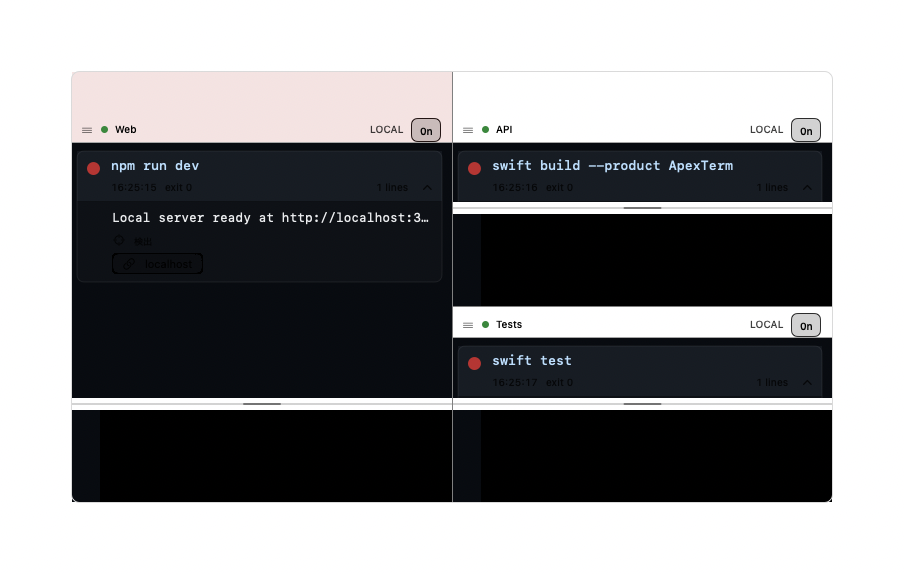
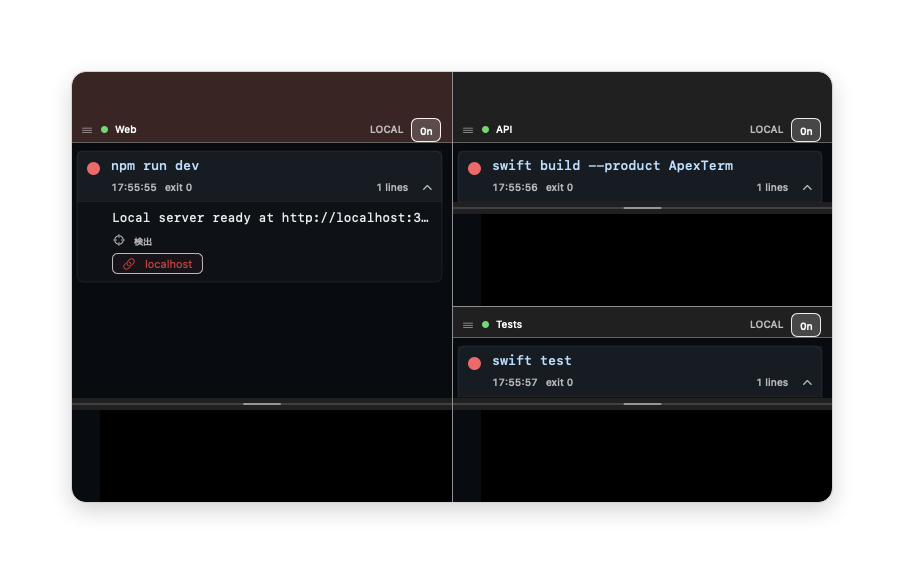
feat: add appearance settings and README presentation captures

diff --git a/Sources/ApexTermApp/RootView.swift b/Sources/ApexTermApp/RootView.swift
@@ -2976,9 +2976,16 @@ struct RootView: View {
             try? await Task.sleep(for: .milliseconds(25))
         }
 
-        let lightAppearance = NSAppearance(named: .aqua)
-        NSApp.appearance = lightAppearance
-        mainWindow?.appearance = lightAppearance
+        let screenshotAppearance = ApexInterfaceAppearance(
+            rawValue: environment["APEXTERM_README_SCREENSHOT_APPEARANCE"] ?? "dark"
+        ) ?? .dark
+        model.interfaceAppearance = screenshotAppearance
+        model.interfaceAccentColorHex = nil
+        let appKitAppearance = NSAppearance(
+            named: screenshotAppearance == .light ? .aqua : .darkAqua
+        )
+        NSApp.appearance = appKitAppearance
+        mainWindow?.appearance = appKitAppearance
         model.languageCode = environment["APEXTERM_README_SCREENSHOT_LANGUAGE"] ?? "en"
         model.isMainWindowPinned = false
         model.isWorkspaceSidebarCollapsed = false
@@ -3062,7 +3069,7 @@ struct RootView: View {
             "scene=\(scene)",
             "workspaces=\(model.workspaces.count)",
             "panes=\(sessionIDs.count)",
-            "light_appearance=\(NSApp.effectiveAppearance.bestMatch(from: [.aqua, .darkAqua]) == .aqua ? 1 : 0)",
+            "app_appearance=\(screenshotAppearance.rawValue)",
             "screenshot_written=\(screenshotWritten ? 1 : 0)",
             "ready=1"
         ].joined(separator: "\n") + "\n"
@@ -3100,27 +3107,47 @@ struct RootView: View {
         canvas.lockFocus()
         NSColor.white.setFill()
         NSBezierPath(rect: CGRect(origin: .zero, size: canvasSize)).fill()
+        let appFrame = CGRect(
+            x: padding,
+            y: padding,
+            width: bounds.width,
+            height: bounds.height
+        )
+        let cornerRadius: CGFloat = 14
+        let shadow = NSShadow()
+        shadow.shadowColor = NSColor.black.withAlphaComponent(0.18)
+        shadow.shadowBlurRadius = 24
+        shadow.shadowOffset = NSSize(width: 0, height: -8)
+
+        NSGraphicsContext.saveGraphicsState()
+        shadow.set()
+        NSColor.windowBackgroundColor.setFill()
+        NSBezierPath(
+            roundedRect: appFrame,
+            xRadius: cornerRadius,
+            yRadius: cornerRadius
+        ).fill()
+        NSGraphicsContext.restoreGraphicsState()
+
+        NSGraphicsContext.saveGraphicsState()
+        NSBezierPath(
+            roundedRect: appFrame,
+            xRadius: cornerRadius,
+            yRadius: cornerRadius
+        ).addClip()
         sourceImage.draw(
-            in: CGRect(
-                x: padding,
-                y: padding,
-                width: bounds.width,
-                height: bounds.height
-            ),
+            in: appFrame,
             from: CGRect(origin: .zero, size: bounds.size),
             operation: .sourceOver,
             fraction: 1
         )
-        NSColor(calibratedWhite: 0.82, alpha: 1).setStroke()
+        NSGraphicsContext.restoreGraphicsState()
+
+        NSColor(calibratedWhite: 0.78, alpha: 1).setStroke()
         let border = NSBezierPath(
-            roundedRect: CGRect(
-                x: padding - 0.5,
-                y: padding - 0.5,
-                width: bounds.width + 1,
-                height: bounds.height + 1
-            ),
-            xRadius: 8,
-            yRadius: 8
+            roundedRect: appFrame.insetBy(dx: -0.5, dy: -0.5),
+            xRadius: cornerRadius + 0.5,
+            yRadius: cornerRadius + 0.5
         )
         border.lineWidth = 1
         border.stroke()

diff --git a/Sources/ApexTermApp/AppModel.swift b/Sources/ApexTermApp/AppModel.swift
@@ -295,6 +295,35 @@ final class AppModel: ObservableObject {
             synchronizeSettingsDocument()
         }
     }
+    @Published var interfaceAppearance = ApexInterfaceAppearance(
+        rawValue: UserDefaults.standard.string(forKey: "apexterm.interface.appearance") ?? ""
+    ) ?? .system {
+        didSet {
+            UserDefaults.standard.set(
+                interfaceAppearance.rawValue,
+                forKey: "apexterm.interface.appearance"
+            )
+            synchronizeSettingsDocument()
+        }
+    }
+    @Published var interfaceAccentColorHex = UserDefaults.standard.string(
+        forKey: "apexterm.interface.accentColor"
+    ) {
+        didSet {
+            if let interfaceAccentColorHex,
+               !interfaceAccentColorHex.trimmingCharacters(in: .whitespacesAndNewlines).isEmpty {
+                UserDefaults.standard.set(
+                    interfaceAccentColorHex,
+                    forKey: "apexterm.interface.accentColor"
+                )
+            } else {
+                UserDefaults.standard.removeObject(
+                    forKey: "apexterm.interface.accentColor"
+                )
+            }
+            synchronizeSettingsDocument()
+        }
+    }
     @Published private(set) var persistenceMessage: String?
     @Published private(set) var transientNotice: String?
 
@@ -702,6 +731,8 @@ final class AppModel: ObservableObject {
         secureKeyboardEntryEnabled = profile.secureKeyboardEntryEnabled
 
         languageCode = document.general.languageCode
+        interfaceAppearance = document.general.interfaceAppearance ?? .system
+        interfaceAccentColorHex = document.general.accentColorHex
         isCompactMode = document.general.compactMode
         isMainWindowPinned = document.general.pinMainWindow
         isWorkspaceSidebarCollapsed = document.general.collapseLeftSidebar
@@ -738,6 +769,8 @@ final class AppModel: ObservableObject {
         document.profiles[profileIndex].secureKeyboardEntryEnabled = secureKeyboardEntryEnabled
 
         document.general.languageCode = languageCode
+        document.general.interfaceAppearance = interfaceAppearance
+        document.general.accentColorHex = interfaceAccentColorHex
         document.general.compactMode = isCompactMode
         document.general.pinMainWindow = isMainWindowPinned
         document.general.collapseLeftSidebar = isWorkspaceSidebarCollapsed
@@ -780,6 +813,12 @@ final class AppModel: ObservableObject {
 
     var appLanguage: AppLanguage {
         AppLanguage.resolve(languageCode)
+    }
+
+    var interfaceAccentNSColor: NSColor {
+        interfaceAccentColorHex
+            .flatMap(NSColor.init(apexHex:))
+            ?? .controlAccentColor
     }
 
     var terminalAppearance: TerminalAppearance {

diff --git a/Tests/ApexTermCoreTests/SettingsModelsTests.swift b/Tests/ApexTermCoreTests/SettingsModelsTests.swift
@@ -11,6 +11,8 @@ final class SettingsModelsTests: XCTestCase {
 
         XCTAssertEqual(document.activeProfile.id, ApexSettingsDocument.defaultProfileID)
         XCTAssertEqual(document.activeProfile.name, "Default")
+        XCTAssertNil(document.general.interfaceAppearance)
+        XCTAssertNil(document.general.accentColorHex)
         XCTAssertEqual(
             document.keybinding(for: "search.universal")?.chord.displayName,
             "⌘K"
@@ -138,6 +140,8 @@ final class SettingsModelsTests: XCTestCase {
             profiles: [profile],
             general: ApexGeneralSettings(
                 languageCode: "ja",
+                interfaceAppearance: .dark,
+                accentColorHex: "#FF3366",
                 compactMode: true,
                 autoCollapseLineThreshold: 320
             )
@@ -154,6 +158,30 @@ final class SettingsModelsTests: XCTestCase {
             (attributes[.posixPermissions] as? NSNumber)?.intValue,
             0o600
         )
+    }
+
+    func testLegacyGeneralSettingsDecodeWithoutAppearanceFields() throws {
+        let data = Data(
+            """
+            {
+              "languageCode": "en",
+              "compactMode": false,
+              "pinMainWindow": false,
+              "collapseLeftSidebar": false,
+              "collapseRightSidebar": false,
+              "showCommandHistory": true,
+              "confirmMultilinePaste": false,
+              "autoCopyCommandOutput": false,
+              "autoCollapseLargeOutputs": true,
+              "autoCollapseLineThreshold": 160
+            }
+            """.utf8
+        )
+
+        let settings = try JSONDecoder().decode(ApexGeneralSettings.self, from: data)
+
+        XCTAssertNil(settings.interfaceAppearance)
+        XCTAssertNil(settings.accentColorHex)
     }
 
     func testMissingSettingsFileReturnsProvidedDefaults() async throws {

diff --git a/Sources/ApexTermCore/SettingsModels.swift b/Sources/ApexTermCore/SettingsModels.swift
@@ -119,6 +119,22 @@ public enum CommandTranscriptMode: String, Codable, CaseIterable, Identifiable, 
     }
 }
 
+public enum ApexInterfaceAppearance: String, Codable, CaseIterable, Identifiable, Sendable {
+    case system
+    case light
+    case dark
+
+    public var id: String { rawValue }
+
+    public var title: String {
+        switch self {
+        case .system: "System"
+        case .light: "Light"
+        case .dark: "Dark"
+        }
+    }
+}
+
 public struct ApexTerminalProfile: Codable, Equatable, Identifiable, Sendable {
     public var id: UUID
     public var name: String
@@ -167,6 +183,8 @@ public struct ApexTerminalProfile: Codable, Equatable, Identifiable, Sendable {
 
 public struct ApexGeneralSettings: Codable, Equatable, Sendable {
     public var languageCode: String
+    public var interfaceAppearance: ApexInterfaceAppearance?
+    public var accentColorHex: String?
     public var compactMode: Bool
     public var pinMainWindow: Bool
     public var collapseLeftSidebar: Bool
@@ -179,6 +197,8 @@ public struct ApexGeneralSettings: Codable, Equatable, Sendable {
 
     public init(
         languageCode: String = "system",
+        interfaceAppearance: ApexInterfaceAppearance? = nil,
+        accentColorHex: String? = nil,
         compactMode: Bool = false,
         pinMainWindow: Bool = false,
         collapseLeftSidebar: Bool = false,
@@ -190,6 +210,8 @@ public struct ApexGeneralSettings: Codable, Equatable, Sendable {
         autoCollapseLineThreshold: Int = 160
     ) {
         self.languageCode = languageCode
+        self.interfaceAppearance = interfaceAppearance
+        self.accentColorHex = accentColorHex
         self.compactMode = compactMode
         self.pinMainWindow = pinMainWindow
         self.collapseLeftSidebar = collapseLeftSidebar

diff --git a/Sources/ApexTermApp/AppSettingsView.swift b/Sources/ApexTermApp/AppSettingsView.swift
@@ -74,6 +74,32 @@ struct AppSettingsView: View {
                     .foregroundStyle(.secondary)
             }
 
+            Section("Appearance") {
+                Picker("Interface appearance", selection: $model.interfaceAppearance) {
+                    ForEach(ApexInterfaceAppearance.allCases) { appearance in
+                        Text(LocalizedStringKey(appearance.title))
+                            .tag(appearance)
+                    }
+                }
+                .pickerStyle(.segmented)
+
+                ColorPicker(
+                    "Accent color",
+                    selection: interfaceAccentColorBinding,
+                    supportsOpacity: false
+                )
+
+                HStack {
+                    Text("The accent color is used for selected tabs, panes, controls, and highlights.")
+                        .font(.caption)
+                        .foregroundStyle(.secondary)
+                    Spacer()
+                    Button("Use system accent") {
+                        model.interfaceAccentColorHex = nil
+                    }
+                }
+            }
+
             Section("Window Behavior") {
                 Toggle("Compact Terminal Mode", isOn: $model.isCompactMode)
                 Toggle("Pin Main Window Above Others", isOn: $model.isMainWindowPinned)
@@ -191,6 +217,15 @@ struct AppSettingsView: View {
         }
         .formStyle(.grouped)
         .padding(.horizontal, 8)
+    }
+
+    private var interfaceAccentColorBinding: Binding<Color> {
+        Binding(
+            get: { Color(nsColor: model.interfaceAccentNSColor) },
+            set: { color in
+                model.interfaceAccentColorHex = NSColor(color).apexHex
+            }
+        )
     }
 
     private func terminalColorBinding(

diff --git a/Sources/ApexTermApp/ApexTermApp.swift b/Sources/ApexTermApp/ApexTermApp.swift
@@ -1,3 +1,5 @@
+import ApexTermCore
+import AppKit
 import SwiftUI
 
 @main
@@ -8,6 +10,8 @@ struct ApexTermApp: App {
     var body: some Scene {
         WindowGroup("ApexTerm") {
             RootView(model: model)
+                .preferredColorScheme(model.interfaceAppearance.colorScheme)
+                .tint(Color(nsColor: model.interfaceAccentNSColor))
                 .frame(
                     minWidth: ApexTermWindowSizing.mainMinimumContentSize.width,
                     minHeight: ApexTermWindowSizing.mainMinimumContentSize.height
@@ -193,8 +197,20 @@ struct ApexTermApp: App {
 
         Window("Quick Terminal", id: "quick-terminal") {
             QuickTerminalView()
+                .preferredColorScheme(model.interfaceAppearance.colorScheme)
+                .tint(Color(nsColor: model.interfaceAccentNSColor))
         }
         .defaultSize(width: 680, height: 340)
         .windowResizability(.automatic)
+    }
+}
+
+private extension ApexInterfaceAppearance {
+    var colorScheme: ColorScheme? {
+        switch self {
+        case .system: nil
+        case .light: .light
+        case .dark: .dark
+        }
     }
 }

diff --git a/Sources/ApexTermApp/AppSettingsMigration.swift b/Sources/ApexTermApp/AppSettingsMigration.swift
@@ -65,6 +65,12 @@ enum AppSettingsMigration {
         let general = ApexGeneralSettings(
             languageCode: defaults.string(forKey: AppLanguage.defaultsKey)
                 ?? AppLanguage.system.rawValue,
+            interfaceAppearance: defaults.string(
+                forKey: "apexterm.interface.appearance"
+            ).flatMap(ApexInterfaceAppearance.init(rawValue:)) ?? .system,
+            accentColorHex: defaults.string(
+                forKey: "apexterm.interface.accentColor"
+            ),
             compactMode: defaults.bool(forKey: "apexterm.compactMode"),
             pinMainWindow: defaults.bool(forKey: "apexterm.mainWindowPinned"),
             collapseLeftSidebar: defaults.bool(

diff --git a/README.md b/README.md
@@ -33,7 +33,7 @@ Filter commands and agent events by kind, failure state, session, and query. Mar
 
 ![ApexTerm Settings for language, terminal, and transcript controls](docs/images/settings.png)
 
-Change the application language, terminal behavior, transcript mode, sidebars, keybindings, UI controls, remote hosts, and the optional DevSpace companion from Settings.
+Change the application language, interface appearance, accent color, terminal behavior, transcript mode, sidebars, keybindings, UI controls, remote hosts, and the optional DevSpace companion from Settings.
 
 ### Compact tabs
 
@@ -61,7 +61,7 @@ The signed local application is written to `.artifacts/ApexTerm.app` by default.
 zsh scripts/capture-readme-screenshots.zsh
 ```
 
-The script launches an isolated demo build, captures five deterministic feature scenes, composites them onto a white background, and writes the results to `docs/images/`. It does not close or modify a normally running ApexTerm session.
+The script launches an isolated demo build, captures five deterministic feature scenes with ApexTerm's dark interface intact, and places each app view inside a rounded white presentation canvas. It writes the results to `docs/images/` without closing or modifying a normally running ApexTerm session.
 
 ## Optional DevSpace companion
 

diff --git a/docs/README.ko.md b/docs/README.ko.md
@@ -33,7 +33,7 @@ ApexTerm은 탭, 분할 패널, 명령 기록, 검색 가능한 히스토리, tm
 
 ![언어, 터미널, 명령 기록 설정](images/settings.png)
 
-Settings에서 앱 언어, 터미널 동작, 명령 기록, 사이드바, 단축키, UI 컨트롤, 원격 호스트와 선택형 DevSpace 안내를 변경할 수 있습니다.
+Settings에서 앱 언어, 인터페이스 모양, 강조 색상, 터미널 동작, 명령 기록, 사이드바, 단축키, UI 컨트롤, 원격 호스트와 선택형 DevSpace 안내를 변경할 수 있습니다.
 
 ### 컴팩트 탭
 
@@ -61,7 +61,7 @@ zsh scripts/build-app.zsh
 zsh scripts/capture-readme-screenshots.zsh
 ```
 
-스크립트는 격리된 데모 앱을 실행하고 다섯 개의 기능 장면을 자동 캡처한 뒤, 흰색 배경 이미지로 `docs/images/`에 저장합니다. 평소 사용 중인 ApexTerm 세션은 종료하거나 변경하지 않습니다.
+스크립트는 격리된 데모 앱을 실행하고 ApexTerm의 다크 인터페이스를 유지한 채 다섯 개의 기능 장면을 둥근 흰색 프레젠테이션 배경에 배치해 `docs/images/`에 저장합니다. 평소 사용 중인 ApexTerm 세션은 종료하거나 변경하지 않습니다.
 
 ## 선택형 DevSpace 연동
 
